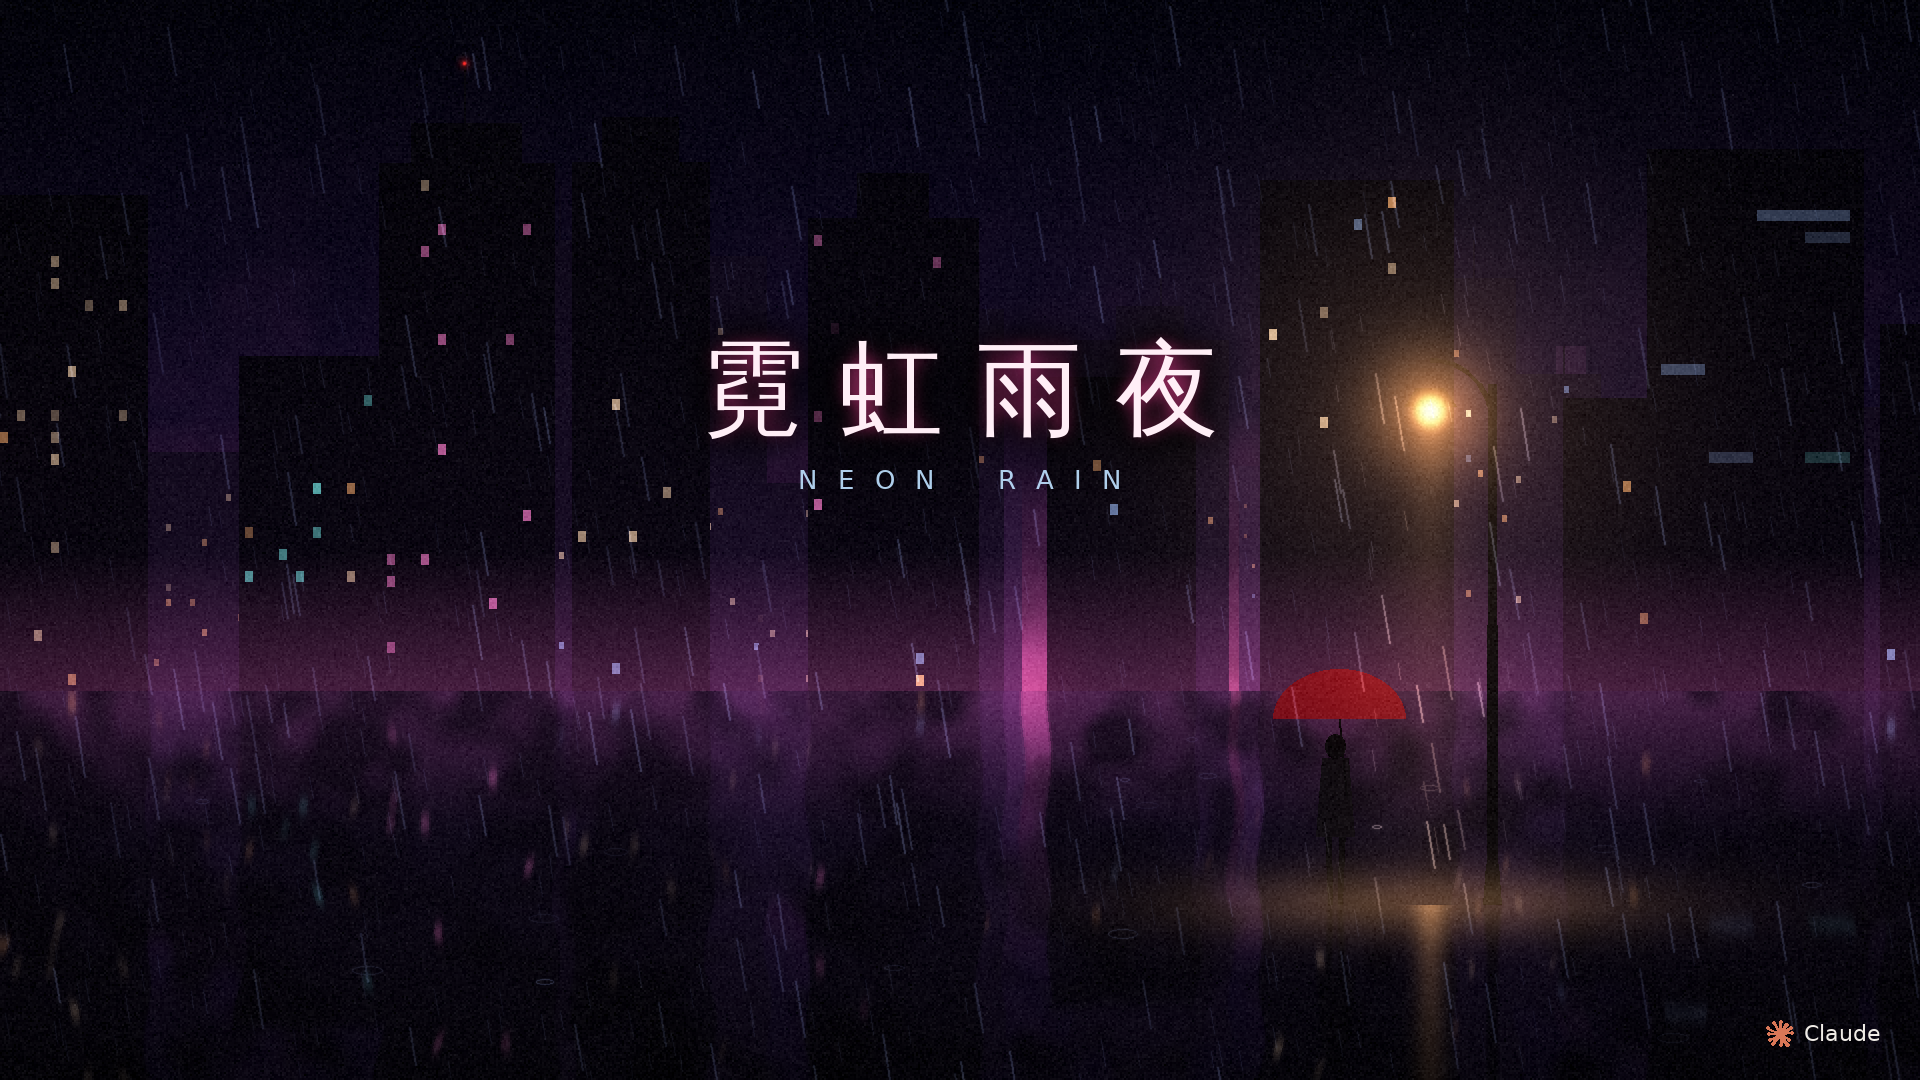
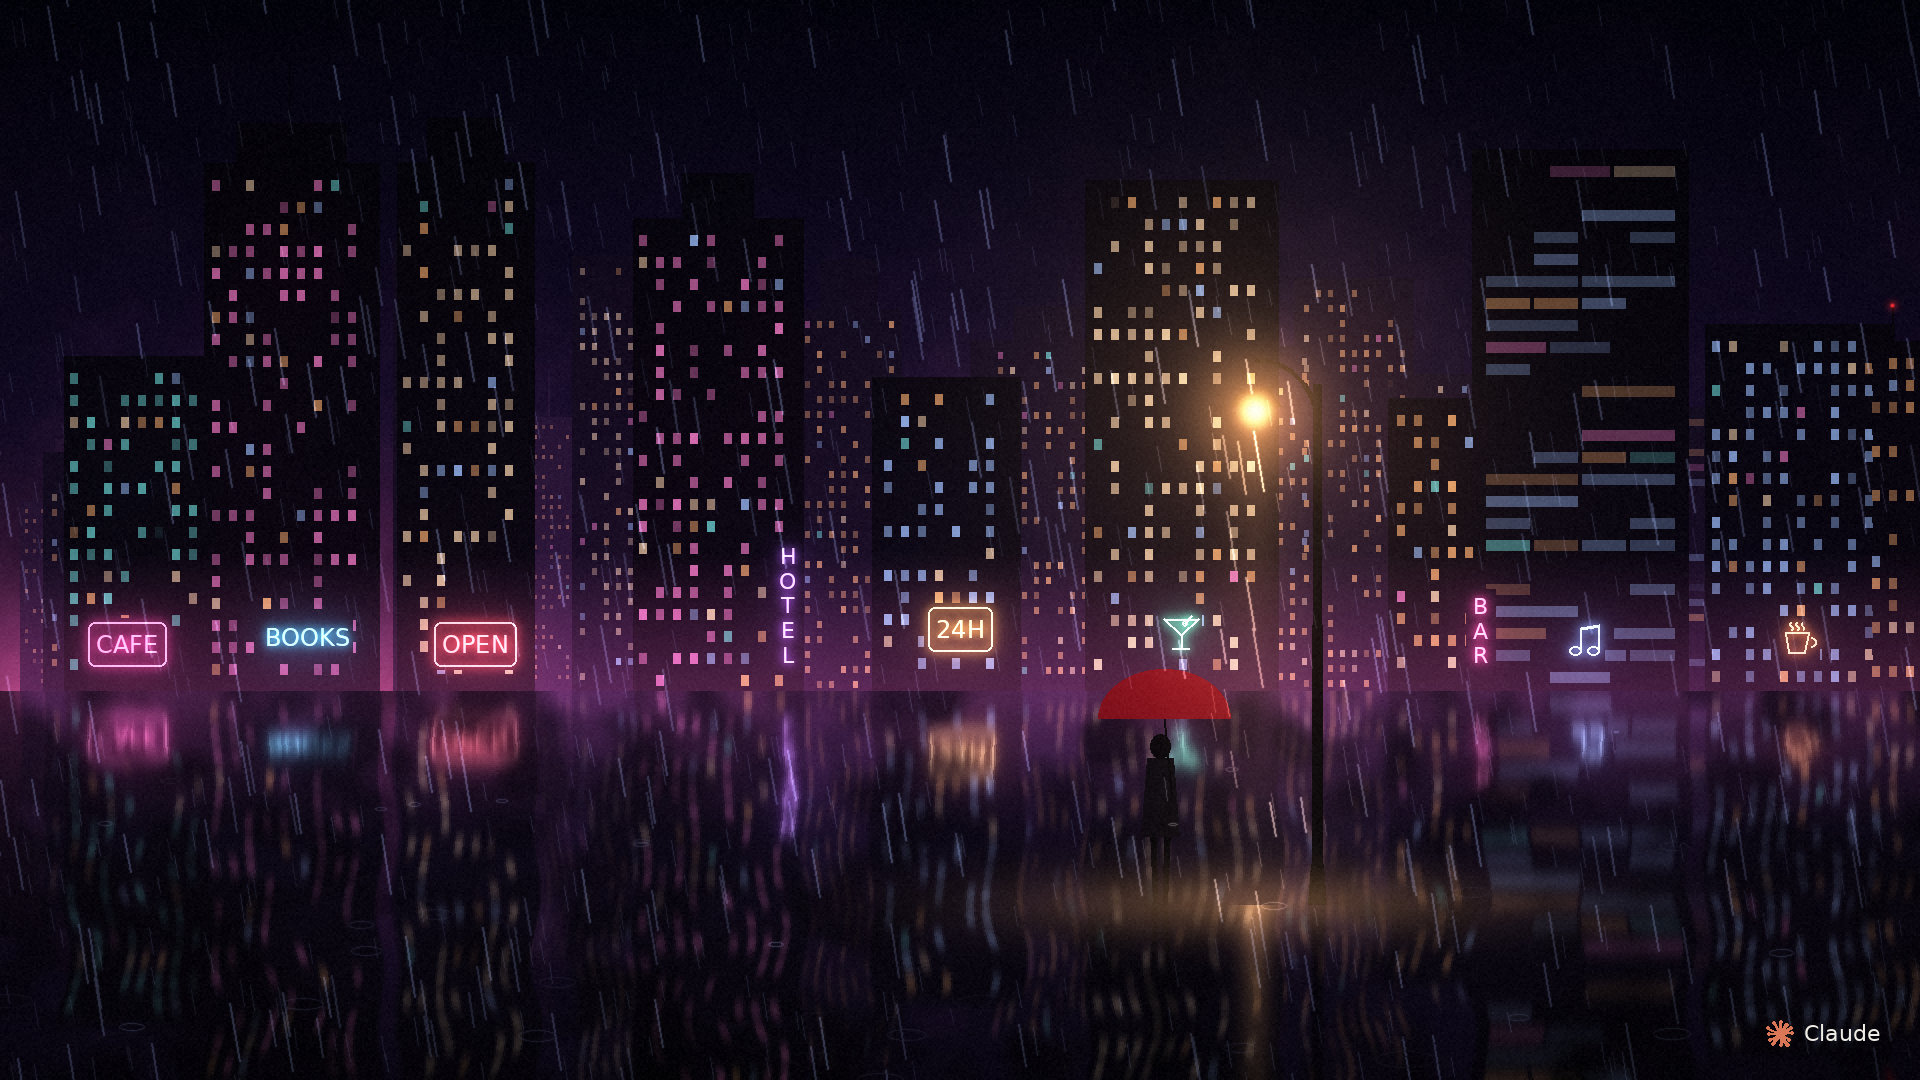
Neon signs: English/graphic only, hung at street level; stills for review
Claude-Session: https://claude.ai/code/session_01VdfstdBLkaf3oZ95Mfc4bo

diff --git a/music_video/render.py b/music_video/render.py
@@ -150,62 +150,100 @@ def glow_patch(mask, color, s1=5, s2=16, core=1.0):
     return (mask[..., None] * corec * core + g1[..., None] * c * 1.6 + g2[..., None] * c * 0.9).astype(np.float32)
 
 
-def text_mask(text, size, vertical, pad):
-    f = ImageFont.truetype(ZH, int(size))
+def text_mask(text, size, vertical, pad, border=False):
+    """英文霓虹字：横排，或竖排的「招牌式」逐字母叠放；border=True 时外加圆角灯管边框"""
+    f = ImageFont.truetype(EN, int(size))
+    tmp = ImageDraw.Draw(Image.new("L", (1, 1)))
     if vertical:
-        cw = int(size * 1.05)
-        im = Image.new("L", (cw + 2 * pad, int(size * 1.08 * len(text)) + 2 * pad))
+        cw = int(size * 1.0)
+        im = Image.new("L", (cw + 2 * pad, int(size * 1.12 * len(text)) + 2 * pad))
         d = ImageDraw.Draw(im)
         for k, ch in enumerate(text):
-            d.text((pad + (cw - d.textlength(ch, font=f)) / 2, pad + k * size * 1.08), ch, font=f, fill=255)
+            d.text((pad + (cw - d.textlength(ch, font=f)) / 2, pad + k * size * 1.12), ch, font=f, fill=255)
     else:
-        tmp = ImageDraw.Draw(Image.new("L", (1, 1)))
         tw = int(tmp.textlength(text, font=f))
-        im = Image.new("L", (tw + 2 * pad, int(size * 1.2) + 2 * pad))
-        ImageDraw.Draw(im).text((pad, pad), text, font=f, fill=255)
-    # 霓虹灯管感：只保留笔画轮廓附近
-    m = np.asarray(im).astype(np.float32) / 255
-    return m
+        bx = int(size * 0.35) if border else 0
+        im = Image.new("L", (tw + 2 * pad + 2 * bx, int(size * 1.2) + 2 * pad + 2 * bx))
+        d = ImageDraw.Draw(im)
+        d.text((pad + bx, pad + bx), text, font=f, fill=255)
+        if border:
+            d.rounded_rectangle([pad, pad, pad + tw + 2 * bx, pad + int(size * 1.2) + 2 * bx],
+                                radius=int(size * .3), outline=255, width=max(1, int(2 * S)))
+    return np.asarray(im).astype(np.float32) / 255
 
 
-SIGNS = [("咖啡", (1.0, .25, .62), True), ("书店", (.2, .85, 1.0), True), ("OPEN", (1.0, .3, .3), False),
-         ("旅馆", (.7, .35, 1.0), True), ("24H", (1.0, .72, .25), False), ("雨", (.3, 1.0, .75), True),
-         ("BAR", (1.0, .25, .62), False), ("拉面", (1.0, .55, .2), True)]
-# 点亮时刻：第一块在鼓点进入（10.7s），其余在主歌开头按拍子依次亮起，旅馆在 B 段亮
-SIGN_ON = [10.67, 21.33, 22.0, 64.0, 22.67, 23.33, 42.67, 43.33]
-SIGN_OFF = [124.5, 118.0, 121.5, 115.0, 120.0, 116.8, 117.5, 119.0]
+def icon_mask(kind, size, pad):
+    """图形霓虹：鸡尾酒杯 / 音符 / 咖啡杯，用细线勾勒成灯管"""
+    sz = int(size)
+    im = Image.new("L", (sz + 2 * pad, sz + 2 * pad))
+    d = ImageDraw.Draw(im)
+    lw = max(2, int(2.5 * S))
+    o = pad
+    if kind == "cocktail":
+        d.line([(o, o + sz * .1), (o + sz, o + sz * .1), (o + sz / 2, o + sz * .58), (o, o + sz * .1)], fill=255, width=lw)
+        d.line([(o + sz / 2, o + sz * .58), (o + sz / 2, o + sz * .92)], fill=255, width=lw)
+        d.line([(o + sz * .25, o + sz * .95), (o + sz * .75, o + sz * .95)], fill=255, width=lw)
+        r = sz * .08
+        d.ellipse([o + sz * .62 - r, o + sz * .22 - r, o + sz * .62 + r, o + sz * .22 + r], outline=255, width=lw)
+        d.line([(o + sz * .62, o + sz * .22), (o + sz * .85, o - sz * .02)], fill=255, width=lw)
+    elif kind == "note":
+        r = sz * .13
+        for cx in (o + sz * .25, o + sz * .78):
+            d.ellipse([cx - r * 1.3, o + sz * .8 - r, cx + r * 1.3, o + sz * .8 + r], outline=255, width=lw)
+            d.line([(cx + r * 1.25, o + sz * .8), (cx + r * 1.25, o + sz * .12)], fill=255, width=lw)
+        d.line([(o + sz * .25 + r * 1.25, o + sz * .12), (o + sz * .78 + r * 1.25, o + sz * .04)], fill=255, width=lw * 2)
+    elif kind == "cup":
+        d.line([(o + sz * .1, o + sz * .35), (o + sz * .2, o + sz * .9), (o + sz * .7, o + sz * .9),
+                (o + sz * .8, o + sz * .35), (o + sz * .1, o + sz * .35)], fill=255, width=lw)
+        d.arc([o + sz * .68, o + sz * .45, o + sz * 1.0, o + sz * .75], 270, 90, fill=255, width=lw)
+        for k in range(3):   # 热气
+            x = o + sz * (.28 + .17 * k)
+            d.arc([x - sz * .05, o, x + sz * .05, o + sz * .14], 90, 270, fill=255, width=lw)
+            d.arc([x - sz * .05, o + sz * .12, x + sz * .05, o + sz * .26], 270, 90, fill=255, width=lw)
+    return np.asarray(im).astype(np.float32) / 255
+
+
+# (类型, 内容, 颜色, 竖排)。只用英文和图形；都挂在街面高度（楼的最底部几层）
+SIGNS = [("text", "CAFE", (1.0, .25, .62), False), ("text", "BOOKS", (.2, .85, 1.0), False),
+         ("text", "OPEN", (1.0, .3, .3), False), ("text", "HOTEL", (.7, .35, 1.0), True),
+         ("text", "24H", (1.0, .72, .25), False), ("icon", "cocktail", (.3, 1.0, .75), False),
+         ("text", "BAR", (1.0, .25, .62), True), ("icon", "note", (.45, .7, 1.0), False),
+         ("icon", "cup", (1.0, .55, .2), False), ("text", "RECORDS", (.3, 1.0, .75), False)]
+# 点亮时刻：第一块在鼓点进入（10.7s），其余在主歌开头按拍子依次亮起，HOTEL 在 B 段亮
+SIGN_ON = [10.67, 21.33, 22.0, 64.0, 22.67, 23.33, 42.67, 43.33, 24.0, 44.0]
+SIGN_OFF = [124.5, 118.0, 121.5, 115.0, 120.0, 116.8, 117.5, 119.0, 122.0, 116.0]
 
 
 def build_signs(rng, near):
+    """店招挂在街面高度：横招牌在一层门面上方，竖招牌从二层往上挂在楼角"""
     signs = []
-    blds = sorted([b for b in near["blds"] if b[1] - b[0] > 70 * S], key=lambda b: b[0])
+    blds = sorted([b for b in near["blds"] if b[1] - b[0] > 60 * S], key=lambda b: b[0])
     pad = int(40 * S)
     used = 0
     for x0, x1, y0 in blds:
         if used >= len(SIGNS):
             break
-        text, c, vert = SIGNS[used]
-        size = (40 if vert else 34) * S
-        m = text_mask(text, size, vert, pad)
-        ph, pw = m.shape
-        if vert:
-            px = x0 + (6 * S if rng.random() < .5 else (x1 - x0) - 6 * S - (pw - 2 * pad)) - pad
-            py = y0 + rng.uniform(.05, .3) * (YH - y0) - pad
+        kind, txt, c, vert = SIGNS[used]
+        if kind == "icon":
+            m = icon_mask(txt, 34 * S, pad)
         else:
-            px = (x0 + x1) / 2 - pw / 2
-            py = y0 + rng.uniform(.15, .45) * (YH - y0) - pad
-        if py + ph > YH - 10 * S or py < 0.12 * YH:
+            m = text_mask(txt, (22 if vert else 24) * S, vert, pad, border=txt in ("OPEN", "CAFE", "24H"))
+        ph, pw = m.shape
+        if pw - 2 * pad > (x1 - x0) - 8 * S or x0 < 20 * S:   # 画面左外侧的楼永远看不到，跳过
             continue
+        if vert:   # 竖招牌：底端离地约两层楼
+            px = x0 + (5 * S if rng.random() < .5 else (x1 - x0) - 5 * S - (pw - 2 * pad)) - pad
+            py = YH - 0.035 * YH - (ph - 2 * pad) - pad
+        else:      # 门头招牌：贴近地面
+            px = (x0 + x1) / 2 - pw / 2 + rng.uniform(-.2, .2) * max(0, (x1 - x0) - (pw - 2 * pad))
+            py = YH - rng.uniform(.03, .06) * YH - (ph - 2 * pad) - pad
+        if py + pad < y0 + 6 * S:
+            continue
+        # 招牌背后的窗户熄掉，文字更清楚
+        near["wid"][int(py + pad - 4 * S):int(py + ph - pad + 4 * S), max(0, int(px + pad - 4 * S)):int(px + pw - pad + 4 * S)] = 0
         signs.append(dict(patch=glow_patch(m, c), x=int(px), y=int(py), on=SIGN_ON[used],
                           off=SIGN_OFF[used], seed=rng.integers(1 << 30)))
         used += 1
-    # 两栋楼的楼顶霓虹灯带
-    for (x0, x1, y0), c in zip(sorted(blds, key=lambda b: b[2])[:2], [(.2, .85, 1.0), (1.0, .25, .62)]):
-        pad2 = int(40 * S)
-        m = np.zeros((int(8 * S) + 2 * pad2, x1 - x0 + 2 * pad2), np.float32)
-        m[pad2:pad2 + max(2, int(3 * S)), pad2:-pad2] = 1
-        signs.append(dict(patch=glow_patch(m, c, 4, 12, .8), x=x0 - pad2, y=y0 - pad2 - int(2 * S),
-                          on=21.33 + 0.67 * len(signs) % 3, off=117.0, seed=rng.integers(1 << 30)))
     return signs
 
 
